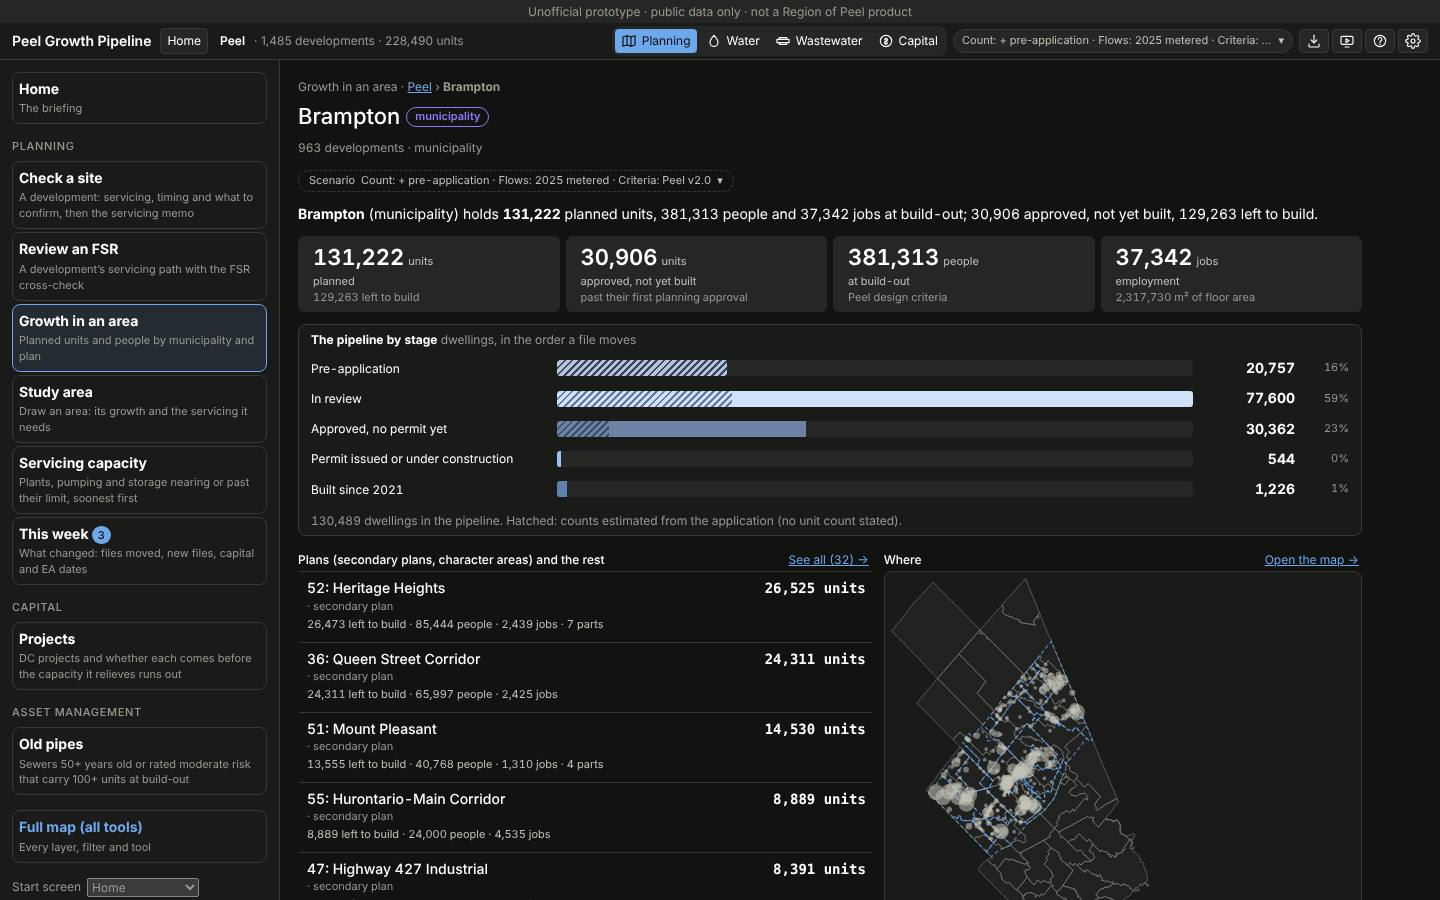
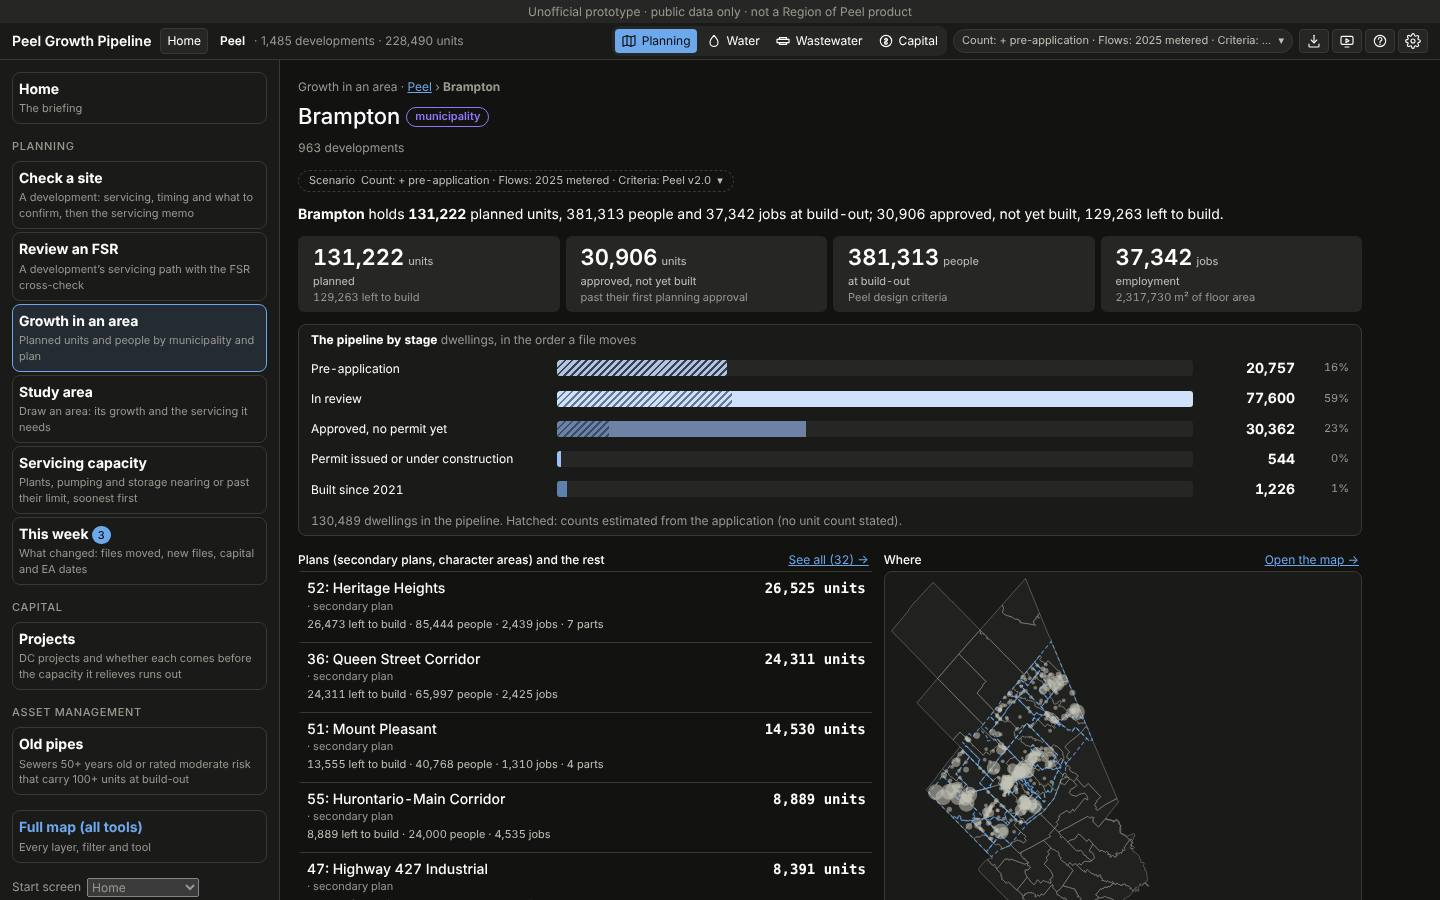
Growth in an area: say the area kind once (status tag only)
Claude-Session: https://claude.ai/code/session_01E9zDvm6xW3ynJ788gjwVZS

Changed region(s): [[0.25, 0.2178, 0.9062, 0.2489], [0.2812, 0.1556, 0.3438, 0.1867]]

diff --git a/js/ws-pages.js b/js/ws-pages.js
@@ -374,8 +374,8 @@
     const mapSvg = f ? f.svg(`${ring && ring.rings ? `<path d="${f.path(ring.rings)}" class="hm-area"/>` : ''}${subRings.map(x => `<path d="${f.path(x.rings)}" class="hm-sub"><title>${esc(x.name)}</title></path>`).join('')}${devPts.filter(p => p.lat != null && (p.units || 0) >= (atPeel ? 50 : 1)).map(p => `<circle cx="${f.X(p.lng)}" cy="${f.Y(p.lat)}" r="${Math.max(1.4, Math.min(6, Math.sqrt(p.units) / 8)).toFixed(1)}" class="hm-dev"/>`).join('')}`, `${n.name}: its developments${ring ? ' and its outline' : ''}`) : '';
     const answer = atPeel
       ? `${pl.answer}${f2031 ? ` About <strong>${f2031.v}</strong> units are expected by 2031 (${f2031.ctx}).` : ''}`
-      : `<strong>${esc(n.name)}</strong> (${esc(kind(n))}${trail[1] && trail[1] !== n ? `, ${esc(trail[1].name)}` : ''}) holds <strong>${n0(m.planned)}</strong> planned units, ${n0(m.people)} people${m.jobs >= 0.5 ? ` and ${n0(m.jobs)} jobs` : ''} at build-out; ${n0(anb)} approved, not yet built, ${n0(m.left)} left to build.`;
-    return { id: 'growth', eyebrow: `${esc(label('growth'))} · ${crumbs}`, name: atPeel ? 'How much is coming, where, and how fast?' : n.name, status: atPeel ? null : { tone: 'stage', text: kind(n) }, identity: atPeel ? esc(`${App().state.muni || 'Peel'} · ${fmtNum(plans.length)} plans with planned units`) : esc(`${fmtNum(dm.size)} developments · ${kind(n)}${trail.length > 2 ? ` in ${trail[trail.length - 2].name}` : ''}`), scen: scen(), answer,
+      : `<strong>${esc(n.name)}</strong> ${trail[1] && trail[1] !== n ? ` (${esc(trail[1].name)})` : ''} holds <strong>${n0(m.planned)}</strong> planned units, ${n0(m.people)} people${m.jobs >= 0.5 ? ` and ${n0(m.jobs)} jobs` : ''} at build-out; ${n0(anb)} approved, not yet built, ${n0(m.left)} left to build.`;
+    return { id: 'growth', eyebrow: `${esc(label('growth'))} · ${crumbs}`, name: atPeel ? 'How much is coming, where, and how fast?' : n.name, status: atPeel ? null : { tone: 'stage', text: kind(n) }, identity: atPeel ? esc(`${App().state.muni || 'Peel'} · ${fmtNum(plans.length)} plans with planned units`) : esc(`${fmtNum(dm.size)} developments${trail.length > 2 ? ` · in ${trail[trail.length - 2].name}` : ''}`), scen: scen(), answer,
       figures: [
         { v: n0(m.planned), u: 'units', label: 'planned', ctx: `${n0(m.left)} left to build` },
         { v: n0(anb), u: 'units', label: 'approved, not yet built', ctx: 'past their first planning approval' },
